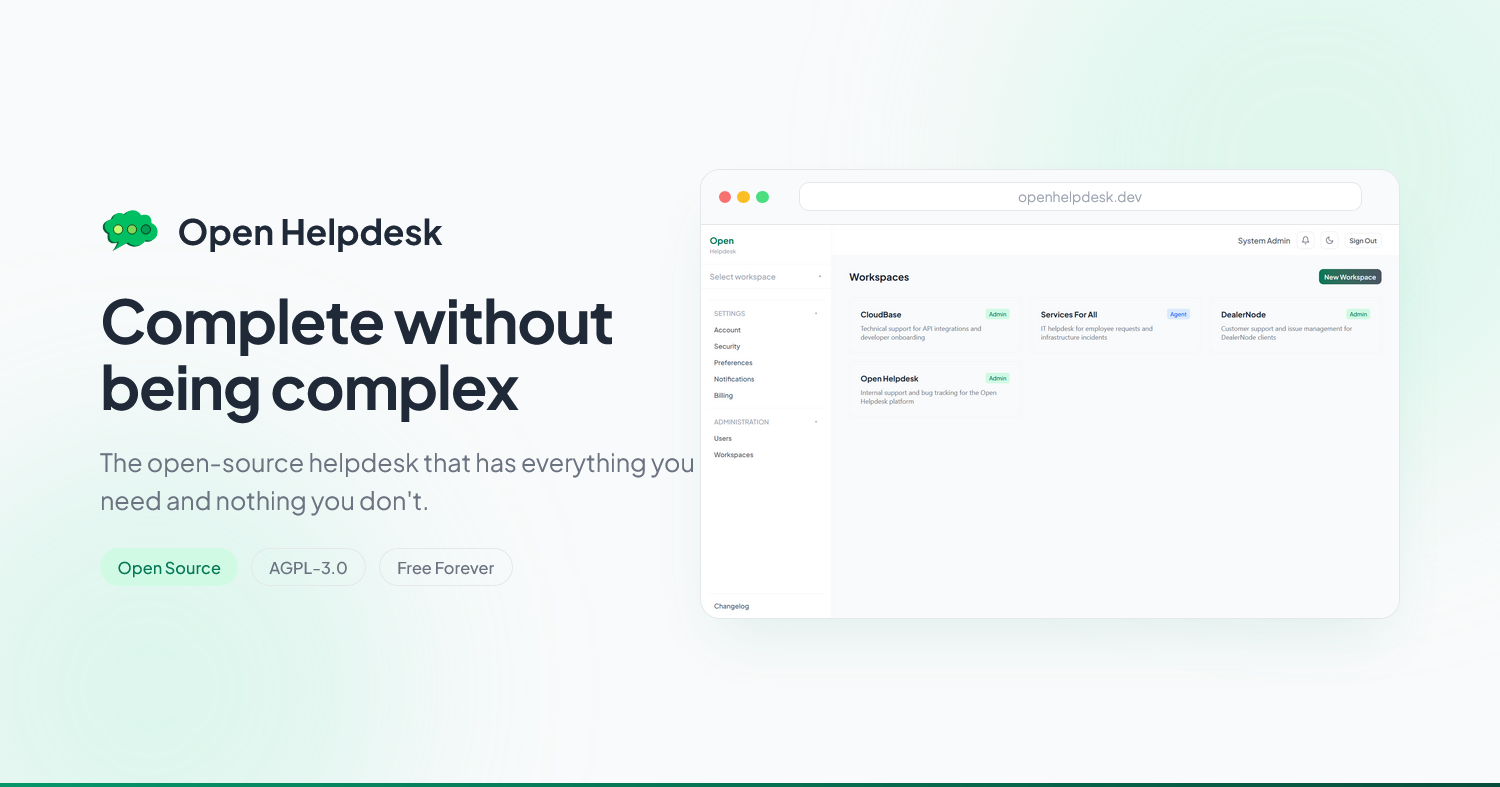
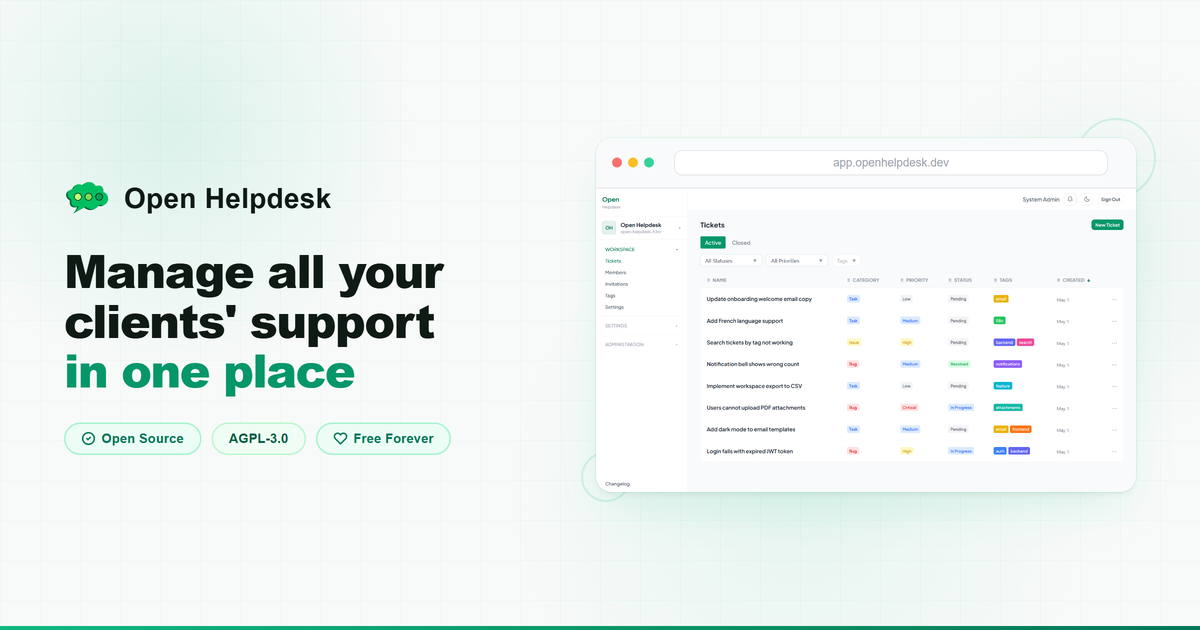
feat: update meta tags, OG image, and SEO for MSP-focused branding

diff --git a/public/og-image.html b/public/og-image.html
@@ -1,0 +1,297 @@
+<!DOCTYPE html>
+<html lang="en">
+<head>
+<meta charset="UTF-8">
+<meta name="viewport" content="width=1200">
+<style>
+  @import url('https://fonts.googleapis.com/css2?family=DM+Sans:ital,opsz,wght@0,9..40,400;0,9..40,500;0,9..40,600;0,9..40,700&family=Outfit:wght@700;800&family=Plus+Jakarta+Sans:wght@400;500;600;700&display=swap');
+
+  * { margin: 0; padding: 0; box-sizing: border-box; }
+
+  body {
+    width: 1200px;
+    height: 630px;
+    overflow: hidden;
+    font-family: 'DM Sans', sans-serif;
+    background: #f8faf9;
+    position: relative;
+  }
+
+  /* Ambient background */
+  .bg-glow-1 {
+    position: absolute;
+    top: -120px;
+    left: -80px;
+    width: 500px;
+    height: 500px;
+    background: radial-gradient(circle, rgba(16, 185, 129, 0.12) 0%, transparent 70%);
+    border-radius: 50%;
+  }
+  .bg-glow-2 {
+    position: absolute;
+    bottom: -160px;
+    right: 100px;
+    width: 600px;
+    height: 600px;
+    background: radial-gradient(circle, rgba(16, 185, 129, 0.08) 0%, transparent 70%);
+    border-radius: 50%;
+  }
+  .bg-glow-3 {
+    position: absolute;
+    top: 50px;
+    right: -100px;
+    width: 400px;
+    height: 400px;
+    background: radial-gradient(circle, rgba(5, 150, 105, 0.06) 0%, transparent 70%);
+    border-radius: 50%;
+  }
+
+  /* Subtle grid pattern */
+  .bg-grid {
+    position: absolute;
+    inset: 0;
+    background-image:
+      linear-gradient(rgba(16, 185, 129, 0.03) 1px, transparent 1px),
+      linear-gradient(90deg, rgba(16, 185, 129, 0.03) 1px, transparent 1px);
+    background-size: 40px 40px;
+  }
+
+  .container {
+    position: relative;
+    z-index: 10;
+    width: 100%;
+    height: 100%;
+    display: flex;
+    align-items: center;
+    padding: 56px 64px;
+    gap: 48px;
+  }
+
+  /* Left column */
+  .left {
+    flex: 1;
+    display: flex;
+    flex-direction: column;
+    gap: 24px;
+    min-width: 0;
+  }
+
+  /* Brand */
+  .brand {
+    display: flex;
+    align-items: center;
+    gap: 14px;
+  }
+  .brand svg {
+    width: 46px;
+    height: 46px;
+    flex-shrink: 0;
+  }
+  .brand-name {
+    font-family: 'Plus Jakarta Sans', sans-serif;
+    font-weight: 600;
+    font-size: 28px;
+    color: #0f1a14;
+    letter-spacing: 0.01em;
+  }
+
+  /* Headline */
+  .headline {
+    font-family: 'Outfit', sans-serif;
+    font-weight: 800;
+    font-size: 46px;
+    line-height: 1.08;
+    letter-spacing: -0.03em;
+    color: #0f1a14;
+    max-width: 480px;
+  }
+  .headline .accent {
+    color: #059669;
+  }
+
+  /* Subheadline */
+  .subheadline {
+    font-size: 16.5px;
+    line-height: 1.55;
+    color: #4b5e54;
+    max-width: 440px;
+    font-weight: 400;
+  }
+
+  /* Badges */
+  .badges {
+    display: flex;
+    gap: 10px;
+    margin-top: 4px;
+  }
+  .badge {
+    display: inline-flex;
+    align-items: center;
+    gap: 6px;
+    padding: 7px 16px;
+    border-radius: 100px;
+    font-size: 13px;
+    font-weight: 600;
+    letter-spacing: 0.01em;
+  }
+  .badge-green {
+    background: #ecfdf5;
+    color: #047857;
+    border: 1.5px solid #a7f3d0;
+  }
+  .badge-dark {
+    background: #f0fdf4;
+    color: #065f46;
+    border: 1.5px solid #bbf7d0;
+  }
+
+  /* Right column — app mockup */
+  .right {
+    flex-shrink: 0;
+    width: 540px;
+    position: relative;
+  }
+
+  .mockup-wrapper {
+    position: relative;
+    border-radius: 16px;
+    overflow: hidden;
+    box-shadow:
+      0 4px 6px -1px rgba(0, 0, 0, 0.05),
+      0 20px 50px -12px rgba(16, 185, 129, 0.15),
+      0 0 0 1px rgba(16, 185, 129, 0.08);
+    background: #fff;
+  }
+
+  /* Browser chrome */
+  .browser-bar {
+    display: flex;
+    align-items: center;
+    gap: 8px;
+    padding: 12px 16px;
+    background: #f9fafb;
+    border-bottom: 1px solid #e5e7eb;
+  }
+  .dots {
+    display: flex;
+    gap: 6px;
+  }
+  .dot {
+    width: 10px;
+    height: 10px;
+    border-radius: 50%;
+  }
+  .dot-red { background: #f87171; }
+  .dot-yellow { background: #fbbf24; }
+  .dot-green { background: #34d399; }
+  .address-bar {
+    flex: 1;
+    margin: 0 12px;
+    background: #fff;
+    border: 1px solid #e5e7eb;
+    border-radius: 8px;
+    padding: 5px 14px;
+    font-size: 11.5px;
+    color: #9ca3af;
+    text-align: center;
+    font-weight: 500;
+  }
+
+  .mockup-img {
+    display: block;
+    width: 100%;
+    height: auto;
+  }
+
+  /* Decorative floating elements */
+  .float-ring {
+    position: absolute;
+    border-radius: 50%;
+    border: 2px solid rgba(16, 185, 129, 0.15);
+  }
+  .float-ring-1 {
+    width: 80px;
+    height: 80px;
+    top: -20px;
+    right: -20px;
+  }
+  .float-ring-2 {
+    width: 50px;
+    height: 50px;
+    bottom: -10px;
+    left: -15px;
+  }
+
+  /* Bottom accent line */
+  .bottom-accent {
+    position: absolute;
+    bottom: 0;
+    left: 0;
+    right: 0;
+    height: 4px;
+    background: linear-gradient(90deg, #10b981, #059669, #047857);
+  }
+</style>
+</head>
+<body>
+
+<div class="bg-glow-1"></div>
+<div class="bg-glow-2"></div>
+<div class="bg-glow-3"></div>
+<div class="bg-grid"></div>
+
+<div class="container">
+  <!-- Left -->
+  <div class="left">
+    <div class="brand">
+      <svg viewBox="0 0 130 130" xmlns="http://www.w3.org/2000/svg">
+        <g transform="translate(-43.228515,-90.531615)">
+          <path fill="#026134" d="m 66.086467,131.826 c 0,0 2.848914,-9.96048 10.910197,-12.32449 8.34503,-2.44721 16.16325,3.23265 16.16325,3.23265 0,0 3.511247,-10.00101 16.870386,-10.001 13.23368,0 18.28466,11.21325 18.28466,11.21325 0,0 10.51852,-3.00263 16.26427,0.80817 7.6071,5.04535 5.75815,15.96122 5.75815,15.96122 0,0 7.27446,3.12234 10.39333,8.04276 4.06757,6.417 3.83457,14.87936 1.16999,20.12671 -2.71868,5.3537 -7.86704,8.79225 -12.68972,9.73262 -4.82261,0.94037 -10.47144,-1.56941 -10.47144,-1.56941 0,0 -2.80485,8.23667 -14.78363,11.62242 -14.05116,3.97149 -24.128647,-6.33469 -24.128647,-6.33469 l -30.342858,16.90104 c 0,0 3.946278,-3.7964 7.105028,-9.803 3.127841,-5.94779 3.508231,-8.58271 3.508231,-8.58271 0,0 -13.214928,4.52223 -18.127641,-3.69907 -3.821966,-6.39596 -2.026353,-14.7938 -2.026353,-14.7938 0,0 -11.81009,-5.2408 -10.597858,-16.95916 C 50.558069,133.68114 66.086476,131.826 66.086476,131.826 Z"/>
+          <path fill="#00bf63" d="m 70.264586,129.48356 c 0,0 2.848918,-9.96048 10.910189,-12.32449 8.345025,-2.44722 16.163255,3.23265 16.163255,3.23265 0,0 3.51122,-10.00101 16.87039,-10.00101 13.23369,0 18.28468,11.21326 18.28468,11.21326 0,0 10.51859,-3.00263 16.26432,0.80817 7.60707,5.04535 5.75815,15.96122 5.75815,15.96122 0,0 7.27434,3.12234 10.39323,8.04276 4.06755,6.417 3.83461,14.87936 1.16998,20.12671 -2.71863,5.3537 -7.86705,8.79225 -12.68968,9.73262 -4.82265,0.94037 -10.47149,-1.56941 -10.47149,-1.56941 0,0 -2.80479,8.23667 -14.7836,11.62242 -14.0511,3.97149 -24.12865,-6.33469 -24.12865,-6.33469 l -30.342839,16.90104 c 0,0 3.946281,-3.7964 7.105037,-9.803 3.127831,-5.94779 3.508231,-8.58271 3.508231,-8.58271 0,0 -13.214933,4.52223 -18.127647,-3.69907 -3.821968,-6.39596 -2.026348,-14.7938 -2.026348,-14.7938 0,0 -11.810101,-5.2408 -10.597859,-16.95916 1.212247,-11.71837 16.74066,-13.57351 16.74066,-13.57351 z"/>
+          <ellipse fill="#049f54" stroke="#000000" stroke-width="1.426" cx="142.581" cy="152.149" rx="10" ry="10"/>
+          <ellipse fill="#7ed957" stroke="#000000" stroke-width="1.426" cx="112.581" cy="152.149" rx="10" ry="10"/>
+          <ellipse fill="#c1ff72" stroke="#000000" stroke-width="1.426" cx="82.581" cy="152.149" rx="10" ry="10"/>
+        </g>
+      </svg>
+      <span class="brand-name">Open Helpdesk</span>
+    </div>
+
+    <h1 class="headline">
+      Manage all your<br>clients' support<br><span class="accent">in one place</span>
+    </h1>
+
+    <div class="badges">
+      <span class="badge badge-green">
+        <svg width="14" height="14" viewBox="0 0 24 24" fill="none" stroke="currentColor" stroke-width="2.5" stroke-linecap="round" stroke-linejoin="round"><path d="M12 22c5.523 0 10-4.477 10-10S17.523 2 12 2 2 6.477 2 12s4.477 10 10 10z"/><path d="m9 12 2 2 4-4"/></svg>
+        Open Source
+      </span>
+      <span class="badge badge-dark">AGPL-3.0</span>
+      <span class="badge badge-green">
+        <svg width="14" height="14" viewBox="0 0 24 24" fill="none" stroke="currentColor" stroke-width="2.5" stroke-linecap="round" stroke-linejoin="round"><path d="M20.84 4.61a5.5 5.5 0 0 0-7.78 0L12 5.67l-1.06-1.06a5.5 5.5 0 0 0-7.78 7.78l1.06 1.06L12 21.23l7.78-7.78 1.06-1.06a5.5 5.5 0 0 0 0-7.78z"/></svg>
+        Free Forever
+      </span>
+    </div>
+  </div>
+
+  <!-- Right -->
+  <div class="right">
+    <div class="float-ring float-ring-1"></div>
+    <div class="float-ring float-ring-2"></div>
+    <div class="mockup-wrapper">
+      <div class="browser-bar">
+        <div class="dots">
+          <div class="dot dot-red"></div>
+          <div class="dot dot-yellow"></div>
+          <div class="dot dot-green"></div>
+        </div>
+        <div class="address-bar">app.openhelpdesk.dev</div>
+      </div>
+      <img class="mockup-img" src="screenshots/showcase-light.png" alt="Open Helpdesk">
+    </div>
+  </div>
+</div>
+
+<div class="bottom-accent"></div>
+
+</body>
+</html>

diff --git a/index.html b/index.html
@@ -3,18 +3,40 @@
   <head>
     <meta charset="UTF-8" />
     <meta name="viewport" content="width=device-width, initial-scale=1.0" />
-    <title>Open Helpdesk — Complete without being complex</title>
-    <meta name="description" content="Open-source helpdesk with tickets, CSAT surveys, reports, custom fields, workspaces, and full audit log. Self-host with Docker or use our cloud. Free forever." />
-    <meta property="og:title" content="Open Helpdesk — Complete without being complex" />
-    <meta property="og:description" content="Open-source helpdesk with tickets, CSAT surveys, reports, custom fields, workspaces, and full audit log. Self-host with Docker or use our cloud. Free forever." />
+    <meta name="theme-color" content="#6366f1" />
+    <link rel="canonical" href="https://openhelpdesk.dev" />
+    <title>Open Helpdesk | Manage all your clients' support in one place</title>
+    <meta name="description" content="Open-source helpdesk with built-in multi-tenant support. Perfect for MSPs, agencies, and teams managing multiple clients. Self-host with Docker or use our cloud." />
+    <meta property="og:title" content="Open Helpdesk | Manage all your clients' support in one place" />
+    <meta property="og:description" content="Open-source helpdesk with built-in multi-tenant support. Perfect for MSPs, agencies, and teams managing multiple clients. Self-host with Docker or use our cloud." />
     <meta property="og:type" content="website" />
     <meta property="og:url" content="https://openhelpdesk.dev" />
     <meta property="og:image" content="https://openhelpdesk.dev/og-image.png" />
+    <meta property="og:image:width" content="1200" />
+    <meta property="og:image:height" content="630" />
+    <meta property="og:image:alt" content="Open Helpdesk — Open-source multi-tenant helpdesk" />
     <meta property="og:site_name" content="Open Helpdesk" />
+    <meta property="og:locale" content="en_US" />
     <meta name="twitter:card" content="summary_large_image" />
-    <meta name="twitter:title" content="Open Helpdesk — Complete without being complex" />
-    <meta name="twitter:description" content="Open-source helpdesk with tickets, CSAT surveys, reports, custom fields, workspaces, and full audit log. Self-host with Docker or use our cloud. Free forever." />
+    <meta name="twitter:title" content="Open Helpdesk | Manage all your clients' support in one place" />
+    <meta name="twitter:description" content="Open-source helpdesk with built-in multi-tenant support. Perfect for MSPs, agencies, and teams managing multiple clients. Self-host with Docker or use our cloud." />
     <meta name="twitter:image" content="https://openhelpdesk.dev/og-image.png" />
+    <script type="application/ld+json">
+      {
+        "@context": "https://schema.org",
+        "@type": "SoftwareApplication",
+        "name": "Open Helpdesk",
+        "applicationCategory": "BusinessApplication",
+        "operatingSystem": "Web",
+        "description": "Open-source helpdesk with built-in multi-tenant support. Perfect for MSPs, agencies, and teams managing multiple clients.",
+        "url": "https://openhelpdesk.dev",
+        "offers": {
+          "@type": "Offer",
+          "price": "0",
+          "priceCurrency": "USD"
+        }
+      }
+    </script>
     <link rel="icon" type="image/svg+xml" href="/favicon.svg" />
     <link rel="icon" type="image/png" sizes="32x32" href="/favicon-32x32.png" />
     <link rel="icon" type="image/png" sizes="16x16" href="/favicon-16x16.png" />
